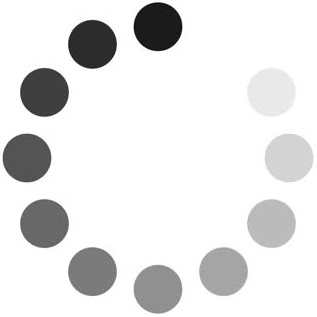
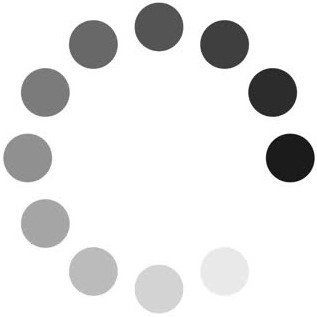
Lobby screen finished

diff --git a/core/src/main/kotlin/no/strooped/view/screen/LobbyScreen.kt b/core/src/main/kotlin/no/strooped/view/screen/LobbyScreen.kt
@@ -2,13 +2,16 @@ package no.strooped.view.screen
 
 import com.badlogic.gdx.Gdx
 import com.badlogic.gdx.Screen
+import com.badlogic.gdx.graphics.Color
 import com.badlogic.gdx.graphics.OrthographicCamera
 import com.badlogic.gdx.graphics.Texture
+import com.badlogic.gdx.graphics.g2d.BitmapFont
 import com.badlogic.gdx.graphics.g2d.SpriteBatch
 import com.badlogic.gdx.math.Rectangle
 import com.badlogic.gdx.math.Vector2
 import com.badlogic.gdx.math.Vector3
 import com.badlogic.gdx.scenes.scene2d.Stage
+import com.badlogic.gdx.scenes.scene2d.ui.Label
 import com.badlogic.gdx.utils.viewport.ScreenViewport
 import no.strooped.StroopedController
 import no.strooped.TextureSizes
@@ -16,32 +19,58 @@ import no.strooped.TextureSizes
 /**
  * Uses https://otter.tech/an-mvc-guide-for-libgdx/ as inspiration
  * */
-
+const val FONT_SIZE_WELCOME_TEXT = 3.0f // needs calibration
 class LobbyScreen(val controller: StroopedController) : Screen {
     var ui: Stage = Stage(ScreenViewport())
 
     var cam: OrthographicCamera = OrthographicCamera()
     var mouse: Vector3 = Vector3()
     var background: Texture = Texture("white.jpg")
-    var logo: Texture = Texture("Strooped1.png")
-    var joinBtn: Texture = Texture("join_game_button.png")
+    var exitBtn: Texture = Texture("exit_game_button.png")
     var loadAnim: Array<Texture?>
 
     var elapsedTime = 0f
-    lateinit var batch: SpriteBatch
+    private lateinit var batch: SpriteBatch
 
     private var iterat = 0
     private val numberOfFrames = 4
+
+    private val backPosX = cam.position.x - cam.viewportWidth / 2f
+    private val backPosY = 0f
+
+    private val exitBtnPosX = (Gdx.graphics.width.toFloat() - TextureSizes.exitGameButtonWidth()) * 0.5f
+    private val exitBtnPosY = Gdx.graphics.height.toFloat() * 0.1f
+
+    private val loadPosX = (Gdx.graphics.width.toFloat() - TextureSizes.loadWidth()) * 0.5f
+    private val loadPosY = (Gdx.graphics.height.toFloat() - TextureSizes.loadHeight()) * 0.35f
+    private val refreshInterval = 0.1f
 
     init {
         cam.setToOrtho(false, Gdx.graphics.width.toFloat(), Gdx.graphics.height.toFloat())
         batch = SpriteBatch()
 
         loadAnim = arrayOfNulls(numberOfFrames)
-        loadAnim[0] = Texture("load1.jpg")
-        loadAnim[1] = Texture("load2.jpg")
-        loadAnim[2] = Texture("load3.jpg")
-        loadAnim[3] = Texture("load4.jpg")
+        for (i in 0 until numberOfFrames) {
+            val nameOfImage = "load$i.jpg"
+            loadAnim[i] = Texture(nameOfImage)
+        }
+        val messsage = "Hey " + controller.username + "!\nPlease wait for the lobby-master to start " +
+            "the game.\nWe made a spinning circle you can enjoy while you wait."
+        val label = Label(messsage, Label.LabelStyle(BitmapFont(Gdx.files.internal("chunkfive.fnt")), Color.FIREBRICK))
+        label.setFontScale(FONT_SIZE_WELCOME_TEXT)
+        val labelWidth = Gdx.graphics.width * 0.8f
+        label.width = labelWidth
+        val labelPosX = (Gdx.graphics.width - label.width) * 0.5f
+        val labelPosY = Gdx.graphics.height * 0.7f
+        label.setPosition(labelPosX, labelPosY)
+        label.setWrap(true) // fit inside the label
+        label.setAlignment(1) // center the text
+        ui.addActor(label)
+
+        /*val toastFactory: Toast.ToastFactory = Builder()
+            .font(attr.font)
+            .build()*/
+        // https://github.com/wentsa/Toast-LibGDX - for toasts
     }
 
     override fun hide() {}
@@ -55,8 +84,6 @@ class LobbyScreen(val controller: StroopedController) : Screen {
         elapsedTime += Gdx.graphics.deltaTime
         batch.projectionMatrix = cam.combined
         batch.begin()
-        val backPosX = cam.position.x - cam.viewportWidth / 2f
-        val backPosY = 0f
         batch.draw(
             background,
             backPosX,
@@ -64,9 +91,13 @@ class LobbyScreen(val controller: StroopedController) : Screen {
             Gdx.graphics.width.toFloat(),
             Gdx.graphics.height.toFloat()
         )
-        val loadPosX = (Gdx.graphics.width.toFloat() - TextureSizes.loadWidth()) * 0.5f
-        val loadPosY = Gdx.graphics.height.toFloat() * 0.5f - TextureSizes.loadHeight() * 0.5f
-        val refreshInterval = 0.1f
+        batch.draw(
+            exitBtn,
+            exitBtnPosX,
+            exitBtnPosY,
+            TextureSizes.exitGameButtonWidth(),
+            TextureSizes.exitGameButtonHeight()
+        )
         if (elapsedTime > refreshInterval) {
             iterat++
             elapsedTime = 0f
@@ -74,25 +105,12 @@ class LobbyScreen(val controller: StroopedController) : Screen {
                 iterat = 0
             }
         }
-        batch.draw(loadAnim[iterat], loadPosX, loadPosY, TextureSizes.loadWidth(), TextureSizes.loadHeight())
-        /*val logoPosX = (Gdx.graphics.width.toFloat() - TextureSizes.logoWidth()) * 0.5f
-        val logoPosY = Gdx.graphics.height.toFloat() * 0.75f - TextureSizes.logoHeight() * 0.5f
         batch.draw(
-            logo,
-            logoPosX,
-            logoPosY,
-            TextureSizes.logoWidth(),
-            TextureSizes.logoHeight()
-        )
-        val joinBtnPosX = (Gdx.graphics.width.toFloat() - TextureSizes.joinGameButtonWidth()) * 0.5f
-        val joinBtnPosY = Gdx.graphics.height.toFloat() * 0.27f
-        batch.draw(
-            joinBtn,
-            joinBtnPosX,
-            joinBtnPosY,
-            TextureSizes.joinGameButtonWidth(),
-            TextureSizes.joinGameButtonHeight()
-        )*/
+            loadAnim[iterat],
+            loadPosX,
+            loadPosY,
+            TextureSizes.loadWidth(),
+            TextureSizes.loadHeight())
         batch.end()
         ui.draw()
     }
@@ -107,20 +125,20 @@ class LobbyScreen(val controller: StroopedController) : Screen {
 
     override fun dispose() {
         ui.dispose()
+        batch.dispose()
     }
 
     private fun handleInput() {
         if (Gdx.input.justTouched()) {
             val rec = Rectangle(
-                (Gdx.graphics.width.toFloat() - TextureSizes.joinGameButtonWidth()) * 0.5f,
-                Gdx.graphics.height.toFloat() * 0.27f,
-                TextureSizes.joinGameButtonWidth(),
-                TextureSizes.joinGameButtonHeight())
+                exitBtnPosX,
+                exitBtnPosY,
+                TextureSizes.exitGameButtonWidth(),
+                TextureSizes.exitGameButtonHeight())
             val touchX = Gdx.input.x.toFloat()
             val touchY = cam.viewportHeight - Gdx.input.y
             if (rec.contains(Vector2(touchX, touchY))) {
-                println("Touch")
-                // gsm.set(PlayState(gsm))
+                controller.exitLobby()
             }
         }
     }

diff --git a/core/src/main/kotlin/no/strooped/view/screen/JoinGameScreen.kt b/core/src/main/kotlin/no/strooped/view/screen/JoinGameScreen.kt
@@ -21,7 +21,7 @@ import no.strooped.TextureSizes
 /**
  * Uses https://otter.tech/an-mvc-guide-for-libgdx/ as inspiration
  * */
-const val FONT_SIZE = 2.0f // might need a change, not right now
+const val FONT_SIZE_INPUT_FIELDS = 2.0f // might need a change, not right now
 const val NAME_OF_SKIN = "background"
 const val TEMP_SIZE = 10
 
@@ -40,6 +40,9 @@ class JoinGameScreen(val controller: StroopedController) : Screen {
     var pin: TextField
     lateinit var batch: SpriteBatch
 
+    val joinBtnPosX = (Gdx.graphics.width.toFloat() - TextureSizes.joinGameButtonWidth()) * 0.5f
+    val joinBtnPosY = Gdx.graphics.height.toFloat() * 0.27f
+
     init {
         cam.setToOrtho(false, Gdx.graphics.width.toFloat(), Gdx.graphics.height.toFloat())
         val temp = NinePatch(Texture("white.jpg"), TEMP_SIZE, TEMP_SIZE, TEMP_SIZE, TEMP_SIZE)
@@ -49,7 +52,7 @@ class JoinGameScreen(val controller: StroopedController) : Screen {
         style.font = BitmapFont(Gdx.files.internal("chunkfive.fnt"))
         style.fontColor = Color.BLACK
         // style.font = BitmapFont()
-        style.font.data.setScale(FONT_SIZE)
+        style.font.data.setScale(FONT_SIZE_INPUT_FIELDS)
         style.background = skin.getDrawable(NAME_OF_SKIN)
 
         @Suppress("MagicNumber")
@@ -102,8 +105,6 @@ class JoinGameScreen(val controller: StroopedController) : Screen {
             TextureSizes.logoWidth(),
             TextureSizes.logoHeight()
         )
-        val joinBtnPosX = (Gdx.graphics.width.toFloat() - TextureSizes.joinGameButtonWidth()) * 0.5f
-        val joinBtnPosY = Gdx.graphics.height.toFloat() * 0.27f
         batch.draw(
             joinBtn,
             joinBtnPosX,
@@ -149,8 +150,8 @@ class JoinGameScreen(val controller: StroopedController) : Screen {
     private fun handleInput() {
         if (Gdx.input.justTouched()) {
             val rec = Rectangle(
-                (Gdx.graphics.width.toFloat() - TextureSizes.joinGameButtonWidth()) * 0.5f,
-                Gdx.graphics.height.toFloat() * 0.27f,
+                joinBtnPosX,
+                joinBtnPosY,
                 TextureSizes.joinGameButtonWidth(),
                 TextureSizes.joinGameButtonHeight())
             val touchX = Gdx.input.x.toFloat()

diff --git a/core/src/main/kotlin/no/strooped/StroopedController.kt b/core/src/main/kotlin/no/strooped/StroopedController.kt
@@ -7,7 +7,7 @@ import no.strooped.service.JoinGameService
 import no.strooped.view.screen.JoinGameScreen
 import no.strooped.view.screen.LobbyScreen
 
-const val TITLE = "Paddle"
+const val TITLE = "Strooped"
 
 class StroopedController : Game() {
     private val screens: ObjectMap<Class<out Screen>, Screen> = ObjectMap()
@@ -17,15 +17,15 @@ class StroopedController : Game() {
     override fun create() {
         loadScreens()
         inititalizeServices()
-        changeScreen(JoinGameScreen::class.java)
+        changeScreen(JoinGameScreen(this))
     }
 
     override fun dispose() {
 //        batch!!.dispose()
     }
 
-    fun changeScreen(key: Class<out Screen>) {
-        setScreen(screens.get(key))
+    fun changeScreen(screen: Screen) {
+        setScreen(screen)
 //        handle(GameEvent("SCREEN_CHANGE").set("SCREEN", screens.get(key)))
     }
 
@@ -35,12 +35,15 @@ class StroopedController : Game() {
         joinGameService.joinGame(username, joinPin)
         // success
         this.username = username
-        changeScreen(LobbyScreen::class.java)
+        changeScreen(LobbyScreen(this))
+    }
+
+    fun exitLobby(){
+        changeScreen(JoinGameScreen(this))
     }
 
     private fun loadScreens() {
         screens.put(JoinGameScreen::class.java, JoinGameScreen(this))
-        screens.put(LobbyScreen::class.java, LobbyScreen(this))
     }
 
     private fun inititalizeServices() {

diff --git a/core/src/main/kotlin/no/strooped/TextureSizes.kt b/core/src/main/kotlin/no/strooped/TextureSizes.kt
@@ -24,6 +24,10 @@ object TextureSizes {
         fun pinLabelHeight(): Float = Gdx.graphics.height * (64f / 2040f)
 
         // loadCircle on LobbyScreen
-        fun loadWidth(): Float = Gdx.graphics.width * (105f / 1080f)
-        fun loadHeight(): Float = Gdx.graphics.height * (105f / 2040f)
+        fun loadWidth(): Float = Gdx.graphics.width * (130f / 1080f) // 105
+        fun loadHeight(): Float = Gdx.graphics.height * (130f / 2040f)
+
+        // loadCircle on LobbyScreen
+        fun exitGameButtonWidth(): Float = Gdx.graphics.width * (376f / 1080f)
+        fun exitGameButtonHeight(): Float = Gdx.graphics.height * (100f / 2040f)
 }
